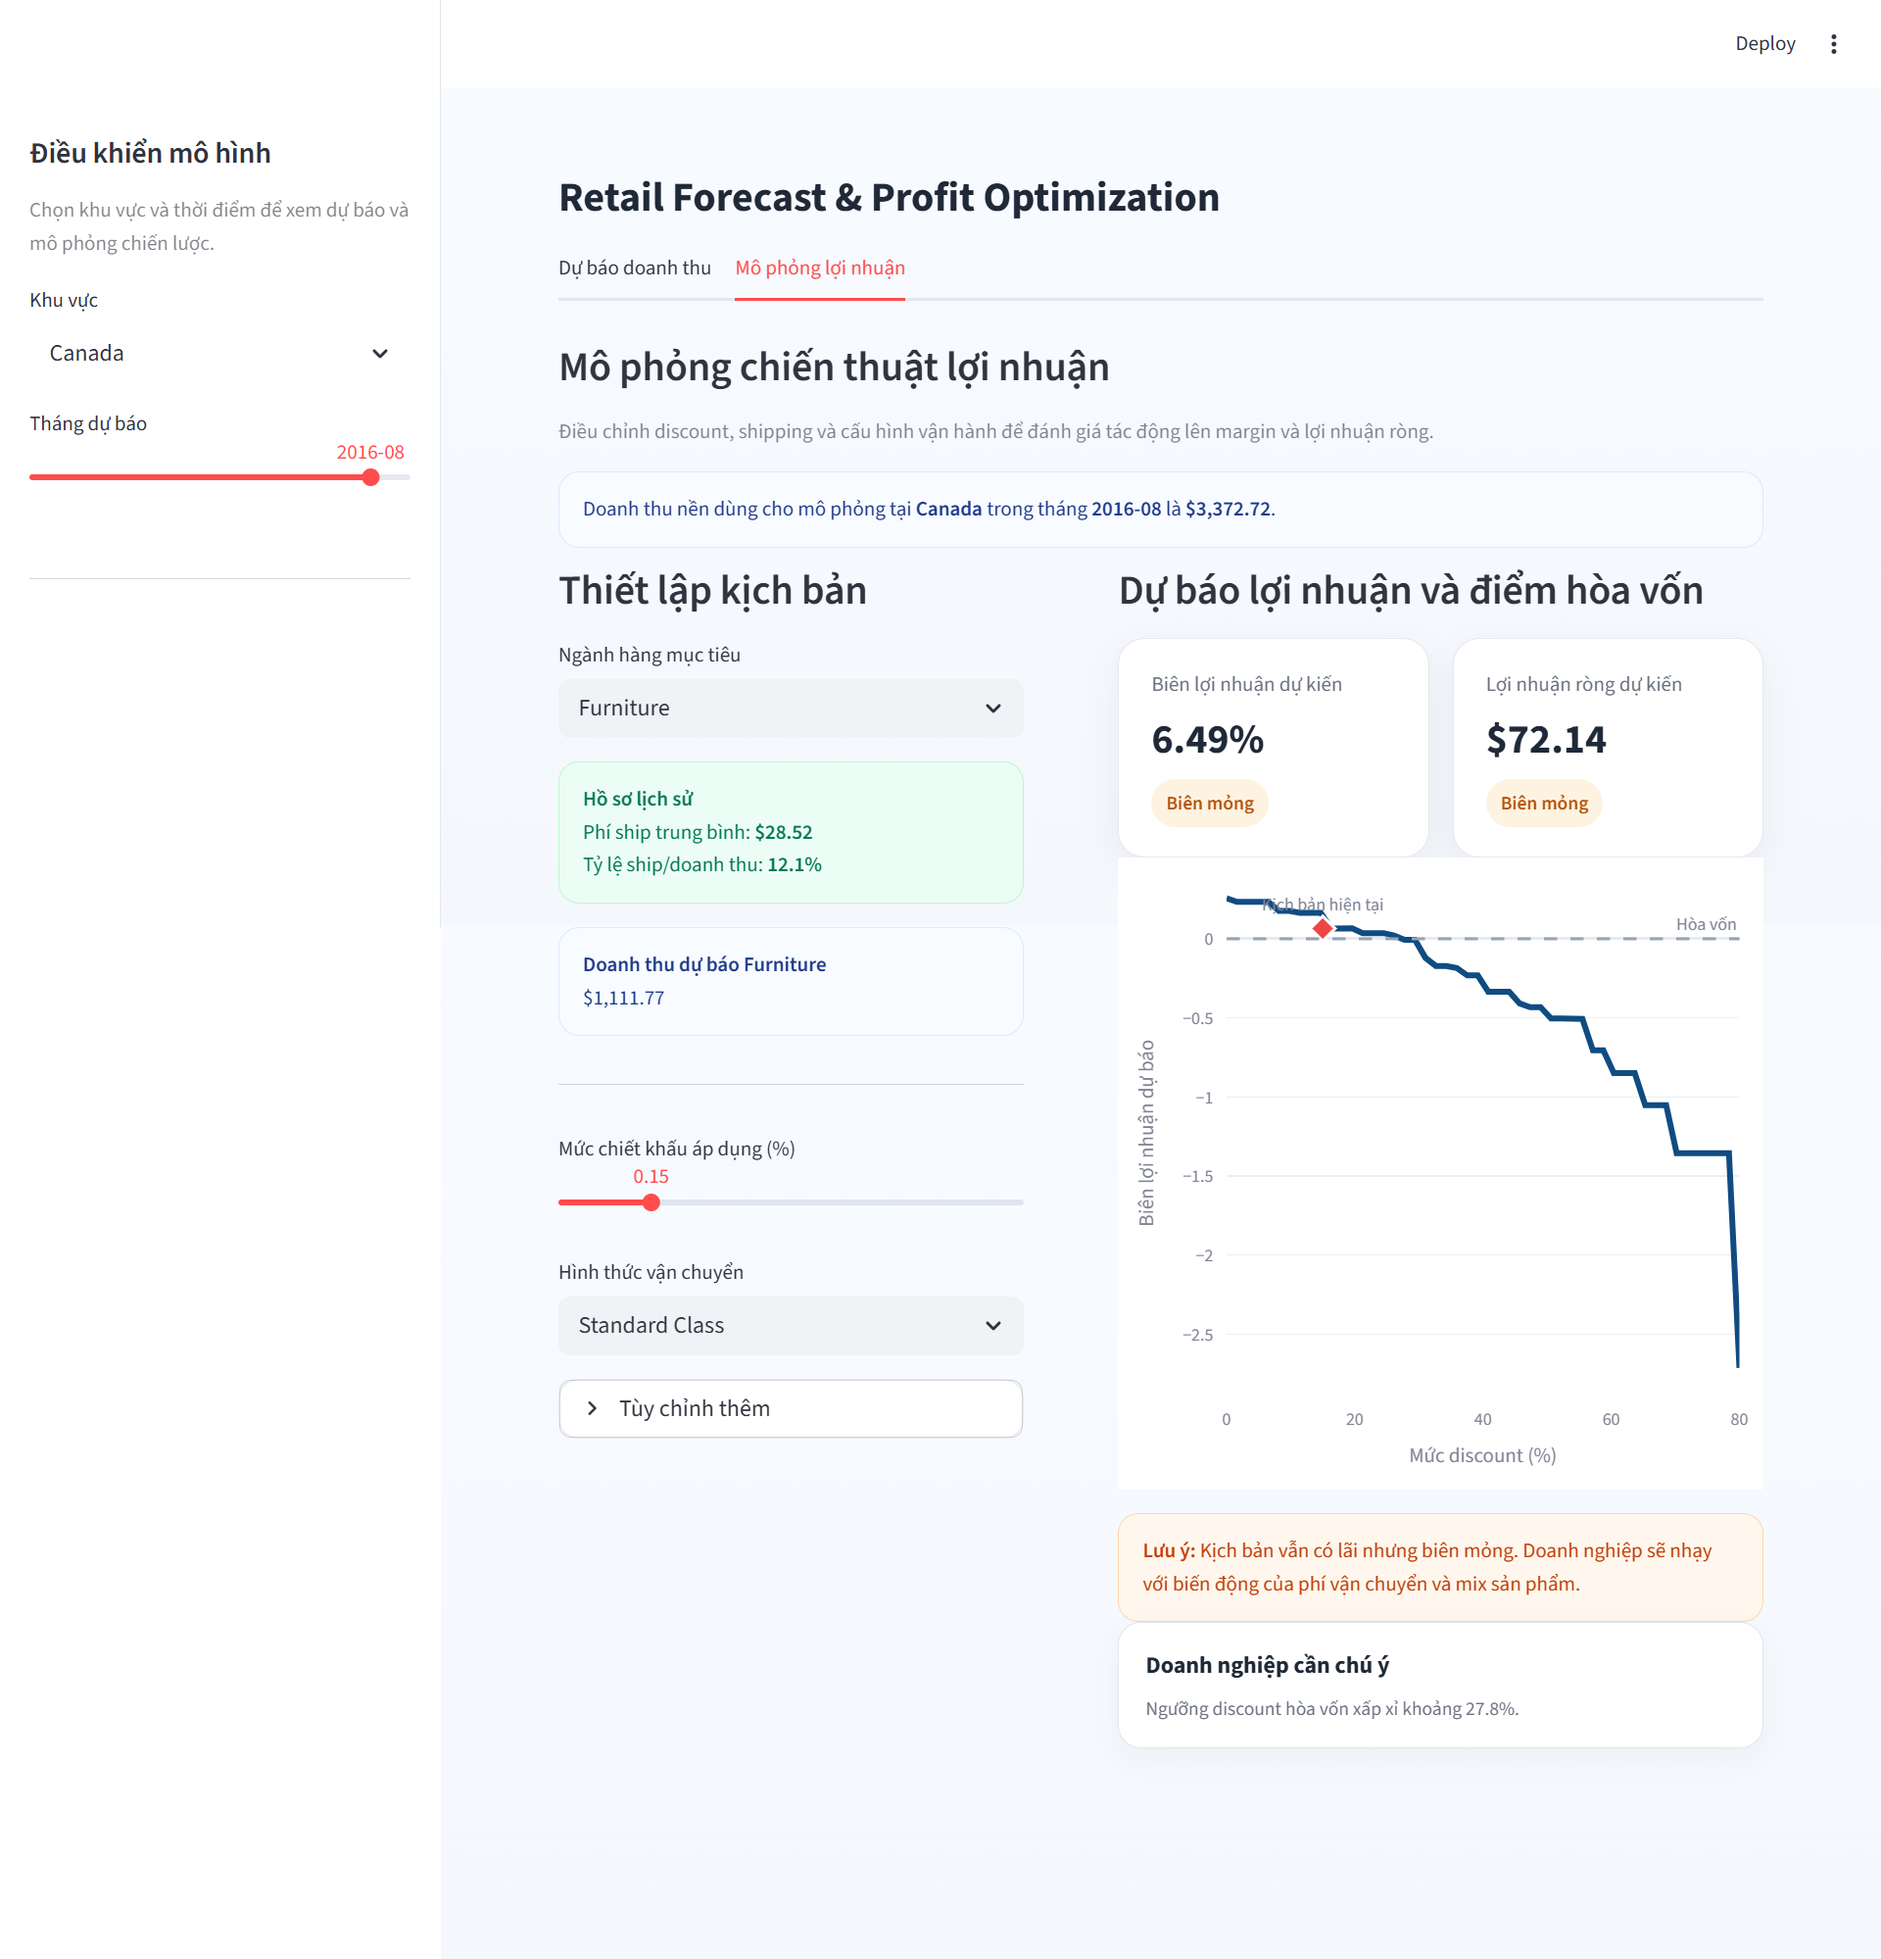
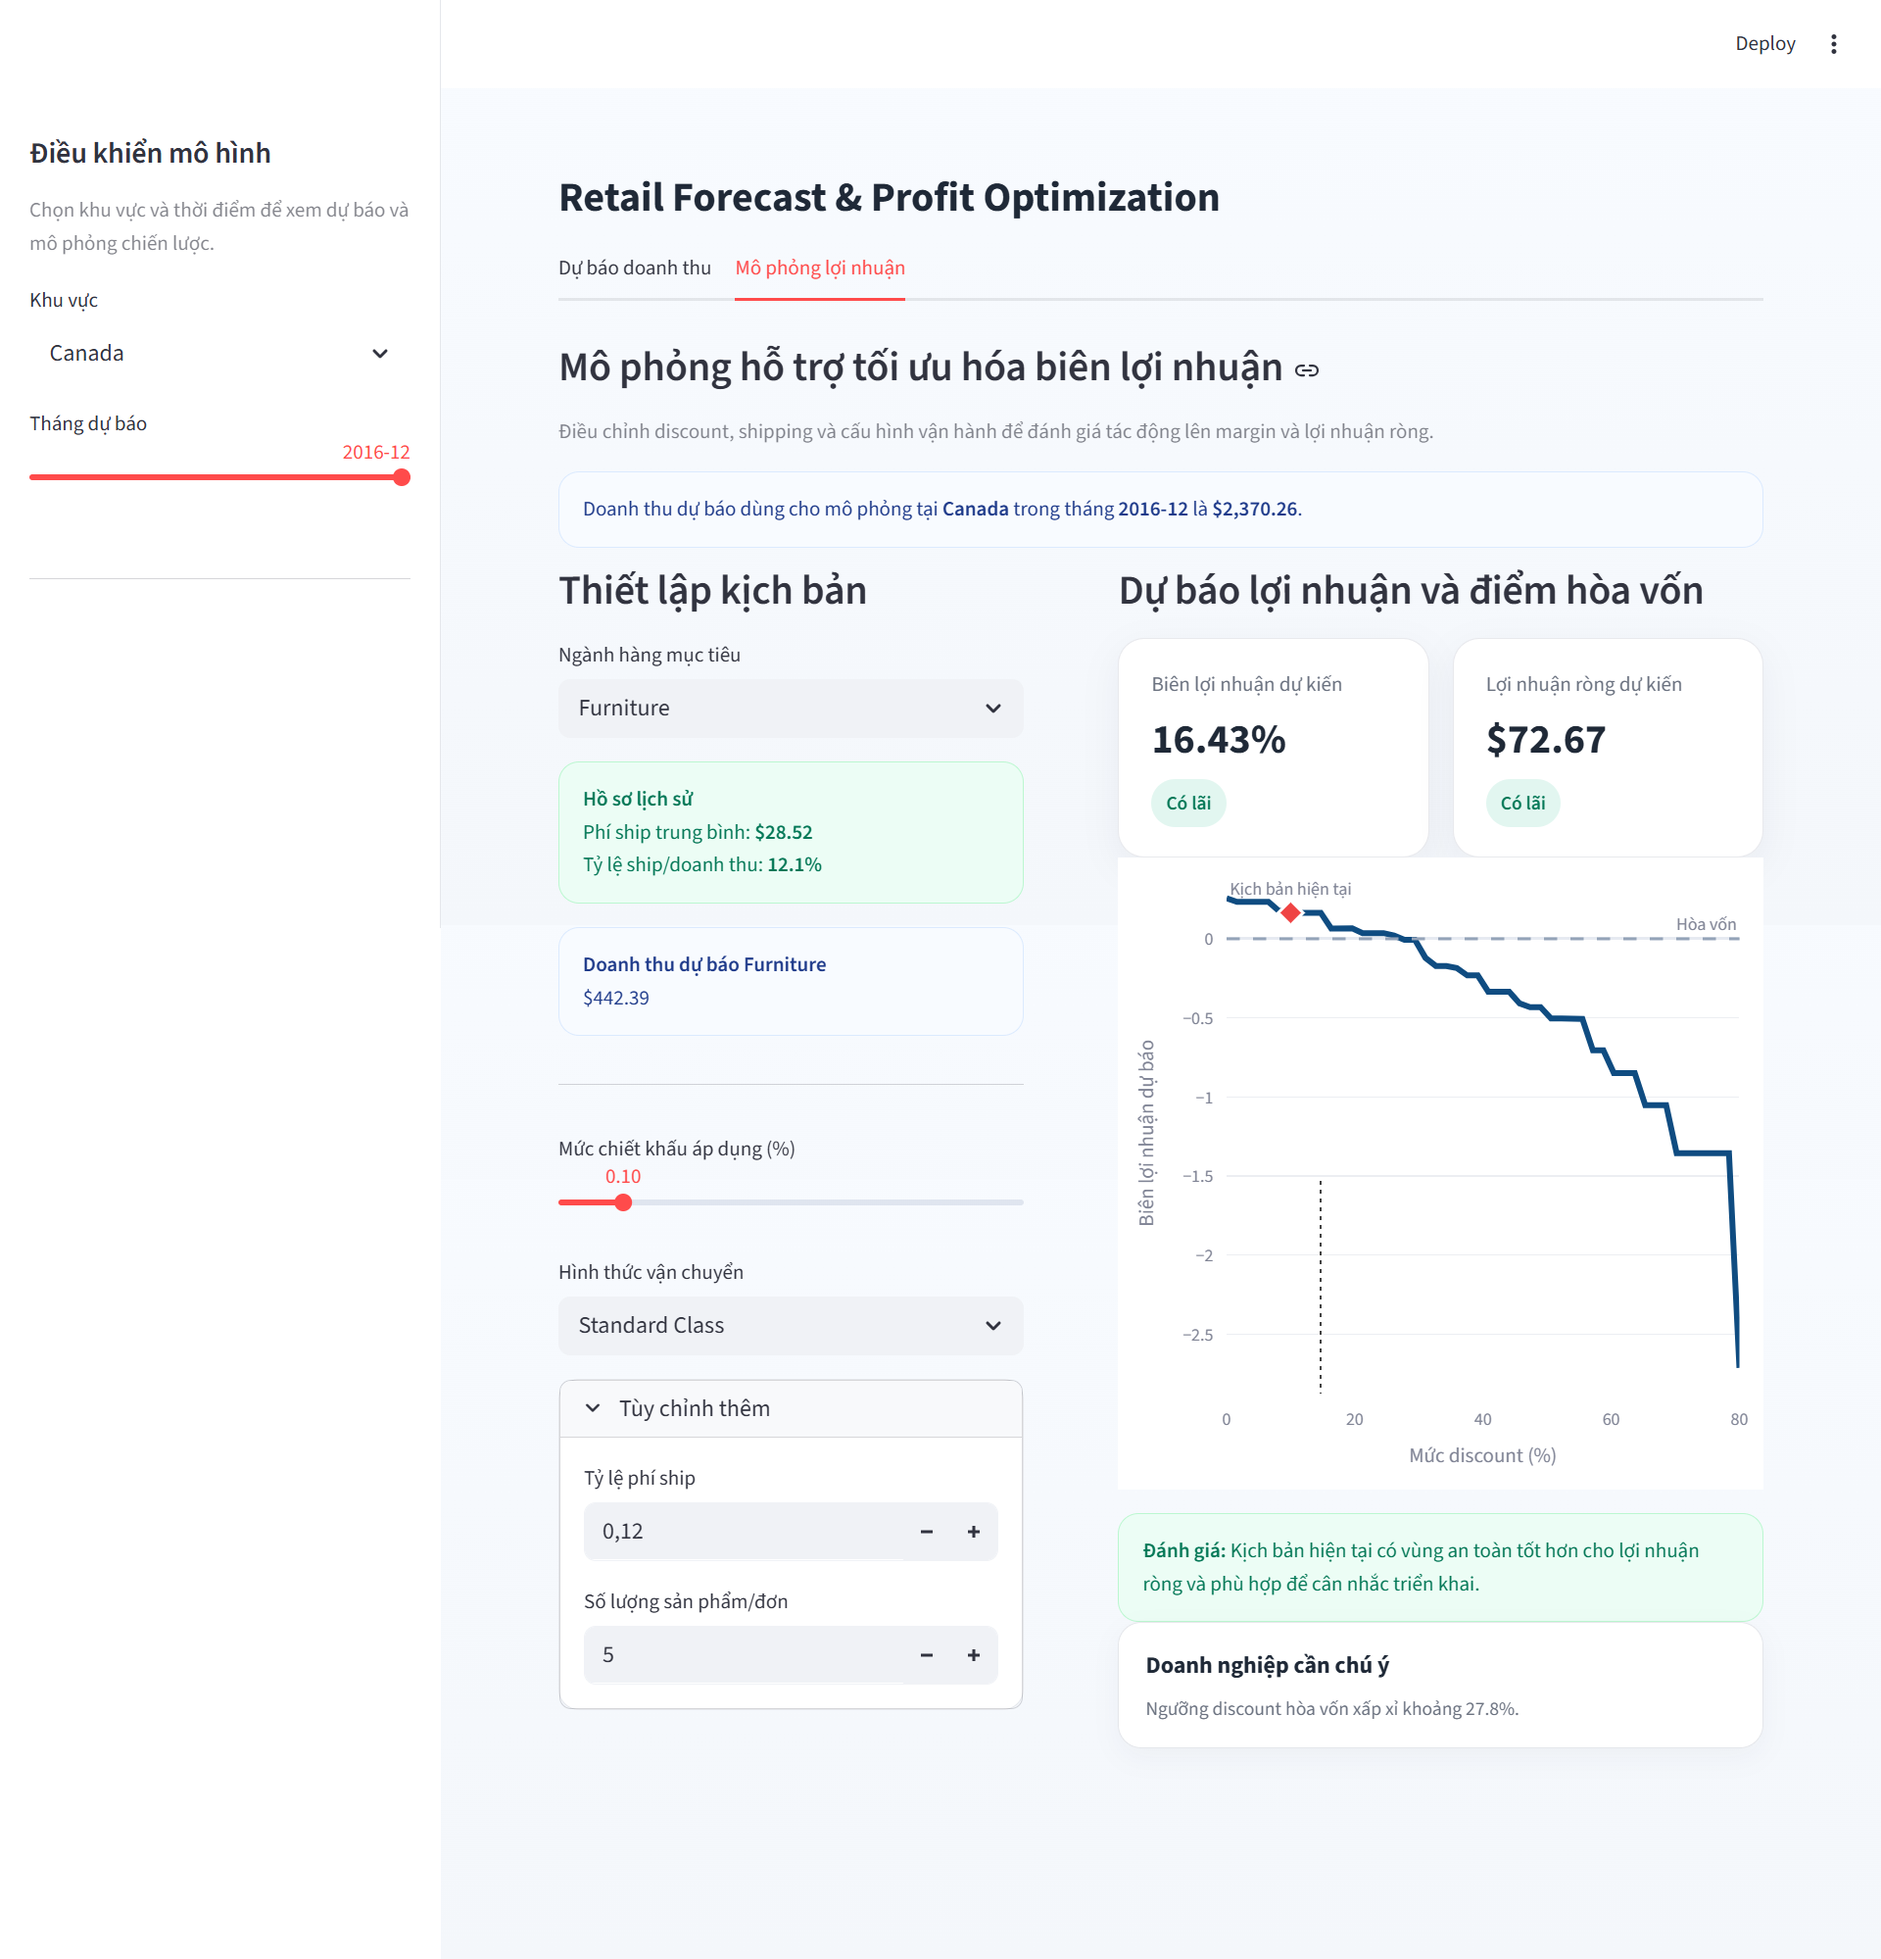
Cập nhật dữ liệu và file notebook dự án Global Superstore

diff --git a/webdemo.py b/webdemo.py
@@ -447,12 +447,12 @@ with tab1:
 with tab2:
     forecast_rev = sales_final if "sales_final" in locals() else 1000.0
 
-    st.markdown("### Mô phỏng chiến thuật lợi nhuận")
+    st.markdown("### Mô phỏng hỗ trợ tối ưu hóa biên lợi nhuận")
     st.caption("Điều chỉnh discount, shipping và cấu hình vận hành để đánh giá tác động lên margin và lợi nhuận ròng.")
 
     st.markdown(f"""
     <div class="note-card">
-        Doanh thu nền dùng cho mô phỏng tại <b>{region_user}</b> trong tháng <b>{sel_date_str}</b> là <b>${forecast_rev:,.2f}</b>.
+        Doanh thu dự báo dùng cho mô phỏng tại <b>{region_user}</b> trong tháng <b>{sel_date_str}</b> là <b>${forecast_rev:,.2f}</b>.
     </div>
     """, unsafe_allow_html=True)
 
